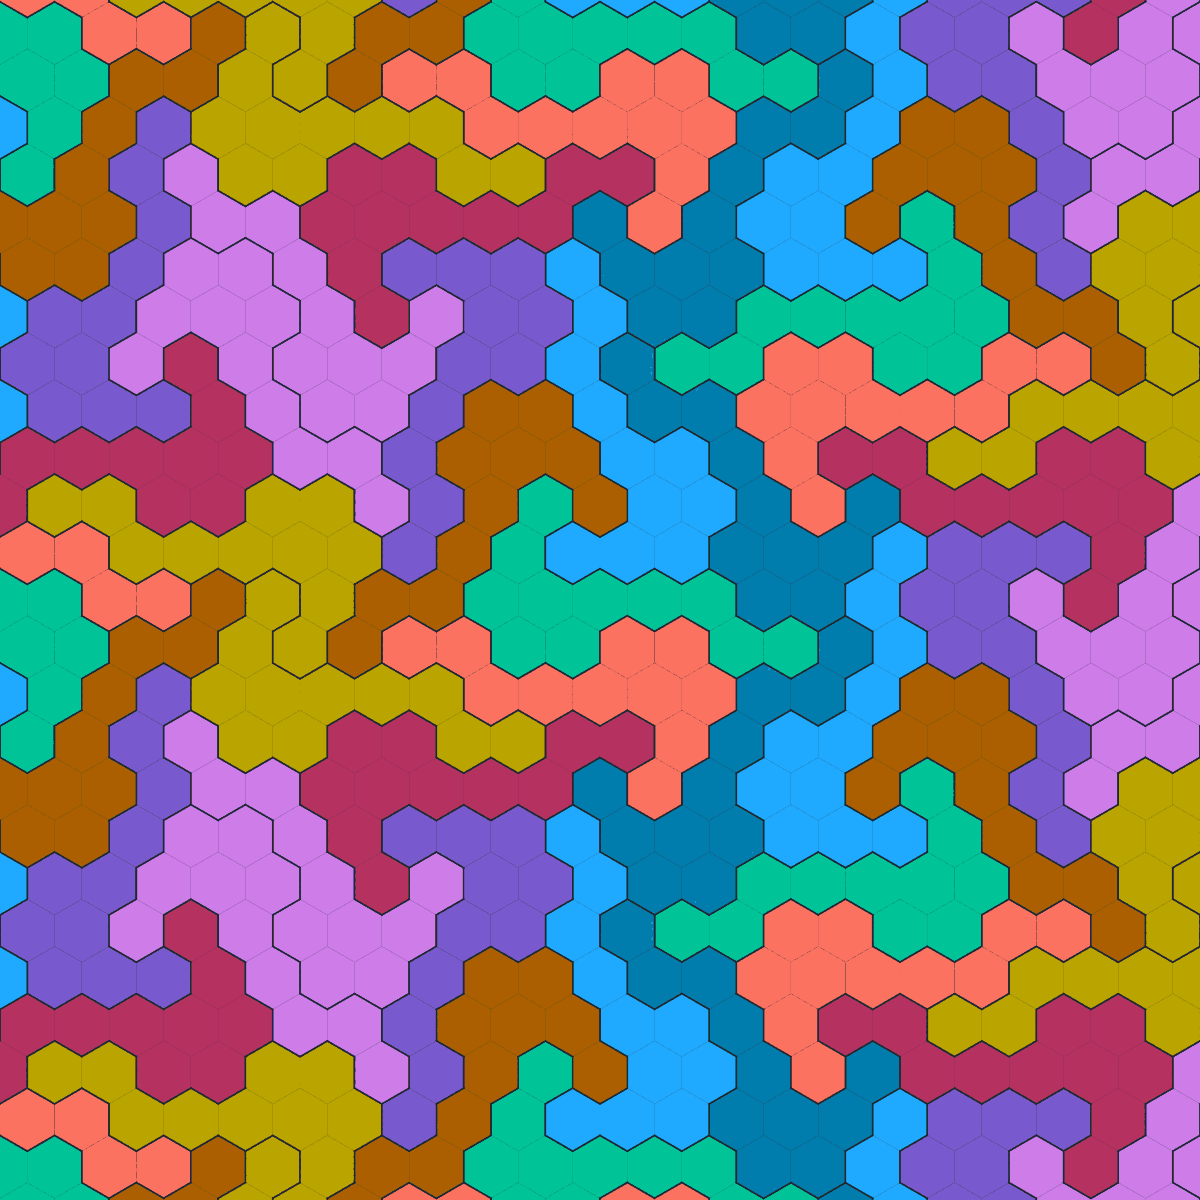
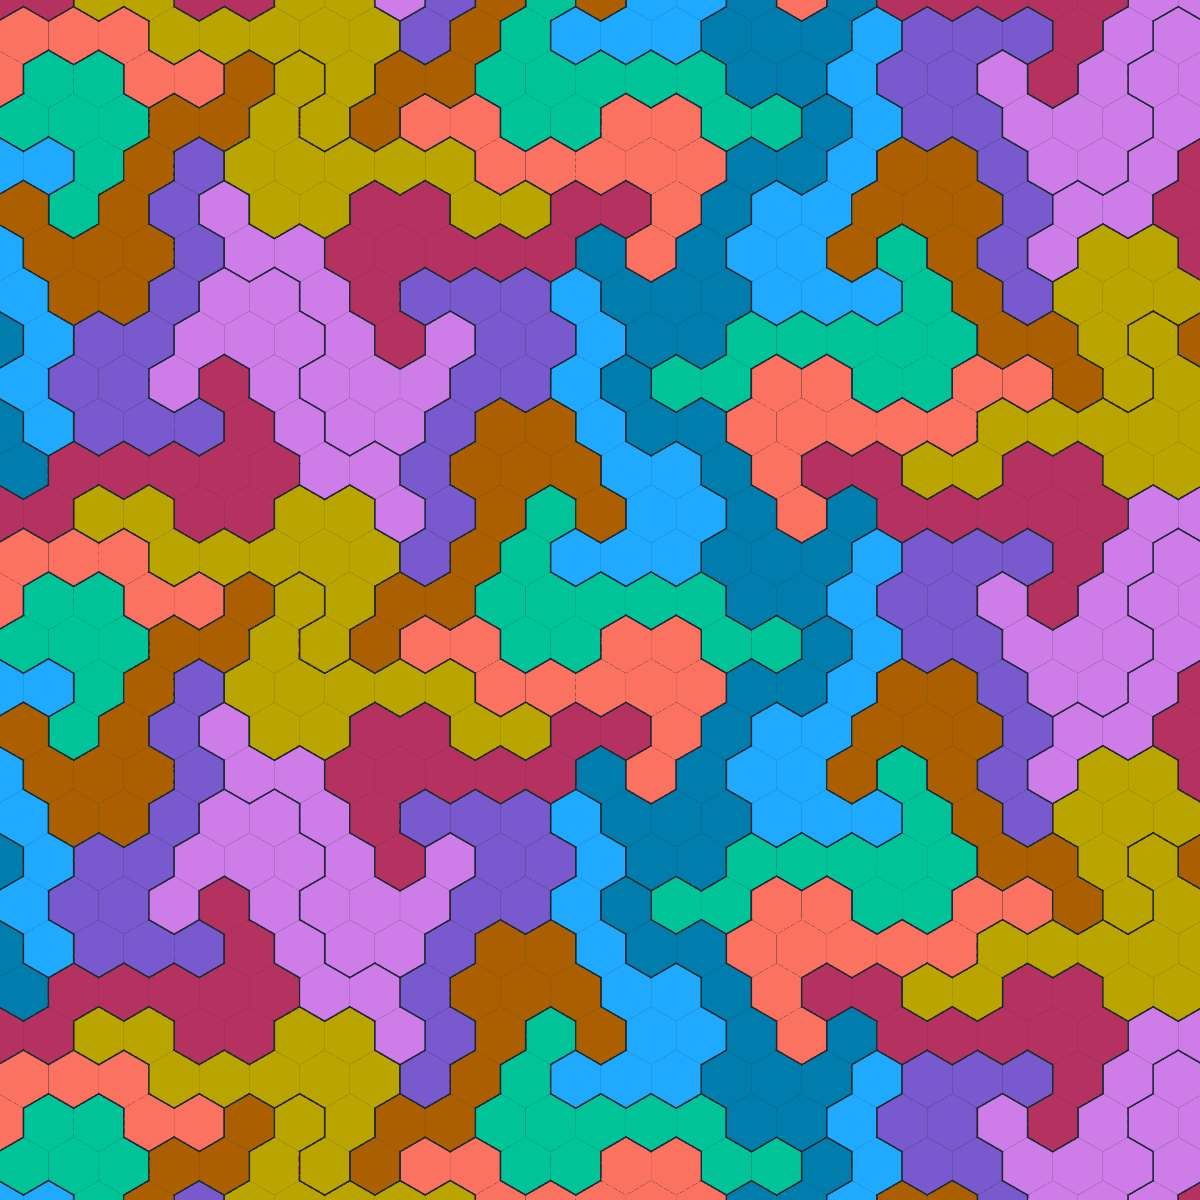
Mirror: Frame tiling figures by tile count, not translational periods
Specifying the frame in periods sounds like the right invariant and is
not: the number of tiles in one period depends on the sublattice, so
'two periods' ranged from 6 tiles (the 10-floret) to 475 (the decapon)
across the page's figures -- a 79x swing in apparent zoom, which is why
they looked arbitrary.

Asked which figures read well, a reader picked the two showing 54 and 58
tiles, called 48 slightly tight, and called 6, 7 and 14 too close and 278
and 475 too far.  So the readable quantity is the tile count and it is
~60.  Framing now targets that, and lands within 54-70 on every backend.

Getting there needed the tile's area measured by shoelace from its own
drawn polygons: deriving it from B.trans and len(B.residues) is tidier
and wrong, because cell positions and cell vertices are not on the same
scale and the ratio differs per backend -- that route overestimated
cairo's tile area 10x and underestimated triakis's 8x.

All 15 tiling figures re-rendered; the decapon's ragged edges are gone.

diff --git a/static/polyform/index.html b/static/polyform/index.html
@@ -179,7 +179,7 @@ footer {
 <header class="masthead">
   <div>
     <h1>Polyform tiling — validation ledger</h1>
-    <div class="sub">Replicating Joseph Myers's plane-tiling classifications, then extending to eight new polyform families · updated 1 August 2026, 20:01
+    <div class="sub">Replicating Joseph Myers's plane-tiling classifications, then extending to eight new polyform families · updated 1 August 2026, 20:10
       · <a href="algorithms.html">how the algorithms work →</a></div>
   </div>
   <div class="cells" aria-hidden="true">
